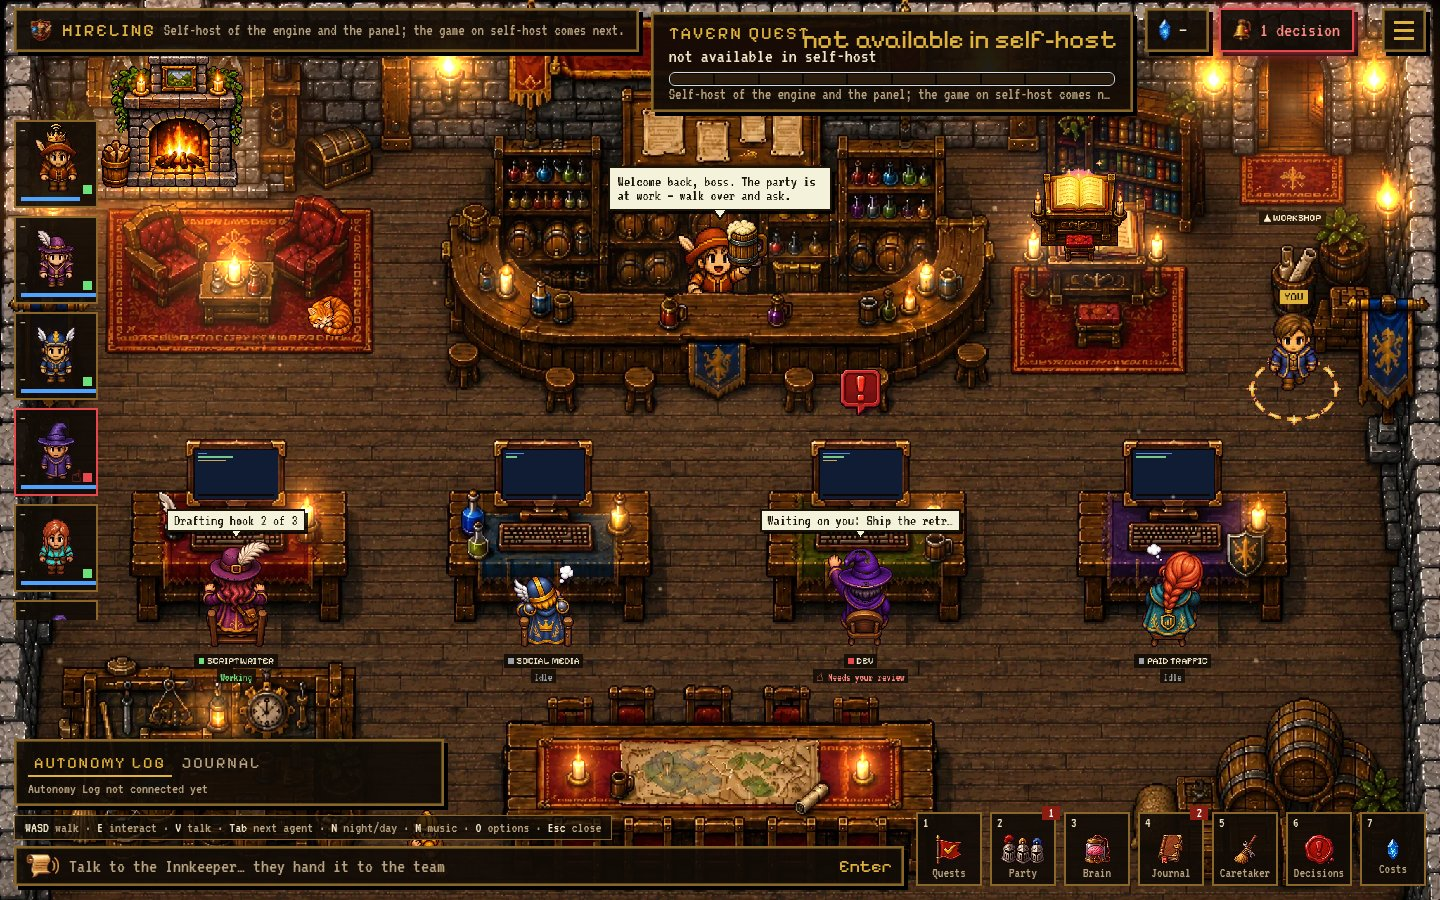
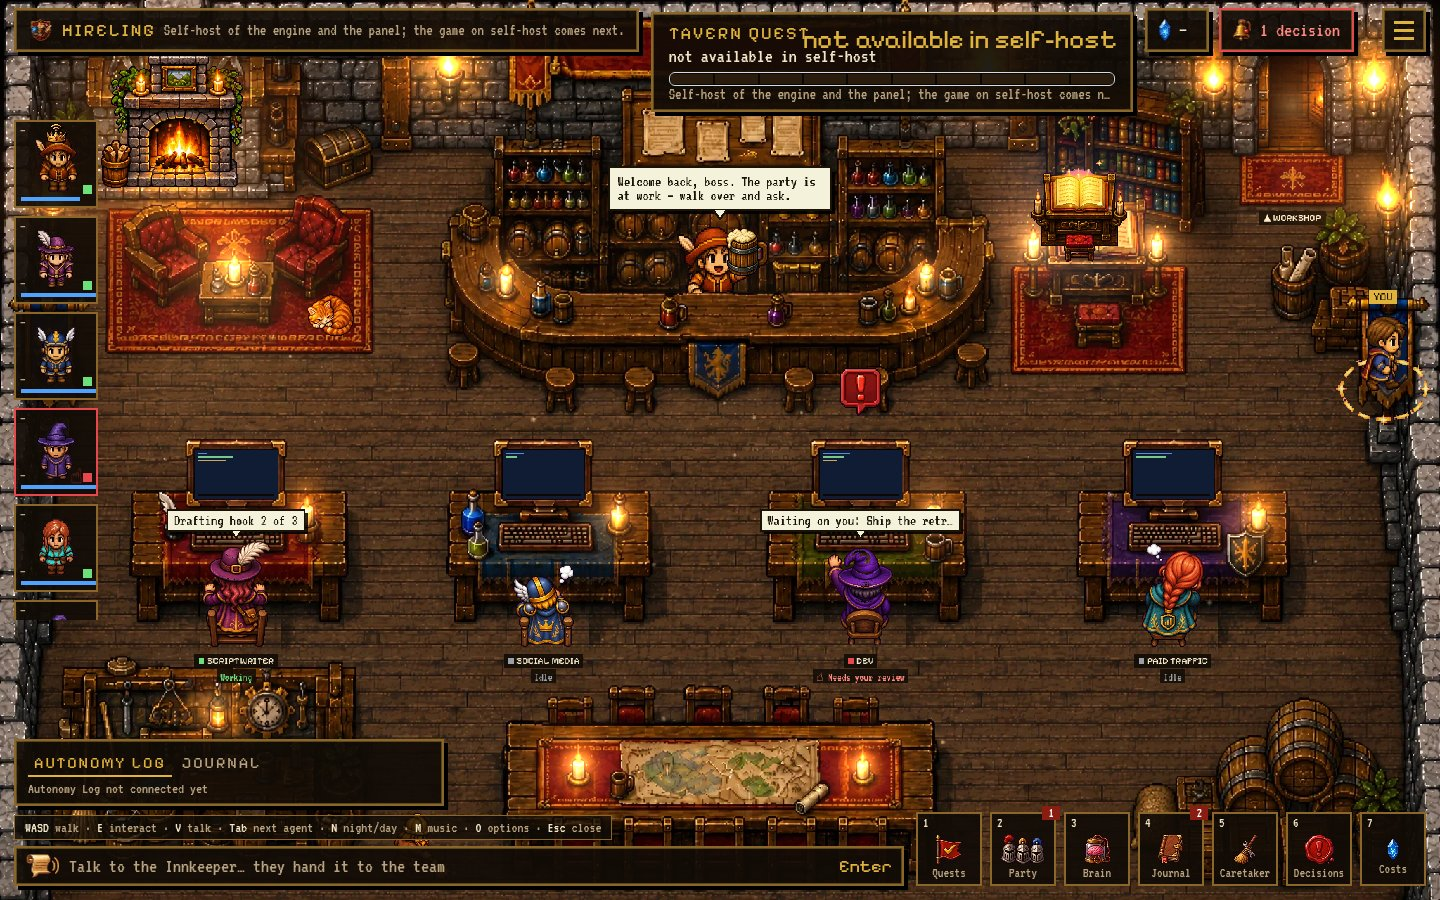
docs(evidence): the OS5 proof walks the tavern at both sizes (#36)
Re-ran the route proof with an ArrowRight walk after the playing state and
recorded it. Update the four tavern/panel prints from that run.

diff --git a/docs/evidence/os5-routing.md b/docs/evidence/os5-routing.md
@@ -4,7 +4,7 @@ Proof for issue #36: `http://127.0.0.1:8080/` opens the tavern when a client bun
 
 ## What ran
 
-The real `tavern-core` handler served the real `dist-selfhost` build from a checkout of `Play-Hireling/playhireling` (`npm run build:selfhost`) through `TAVERN_CLIENT_DIR`, with the same `Security.go` policies as the binary. The API was a Playwright fixture (`GET /api/status`, 401 without `Authorization`); no production host and no DeepSeek call. Chromium at 1440×900 and 390×844, `deviceScaleFactor: 1`, touch emulation at 390.
+The real `tavern-core` handler served the real `dist-selfhost` build from a checkout of `Play-Hireling/playhireling` (`npm run build:selfhost`) through `TAVERN_CLIENT_DIR`, with the same `Security.go` policies as the binary. The API was a Playwright fixture (`GET /api/status`, 401 without `Authorization`); no production host and no DeepSeek call. Chromium at 1440×900 and 390×844, `deviceScaleFactor: 1`, touch emulation at 390. The game accepted the owner token, reached the playing state, and the player walked with `ArrowRight` at both sizes.
 
 | Case | `/` | `/panel/` | `/tavern/` |
 | --- | --- | --- | --- |
